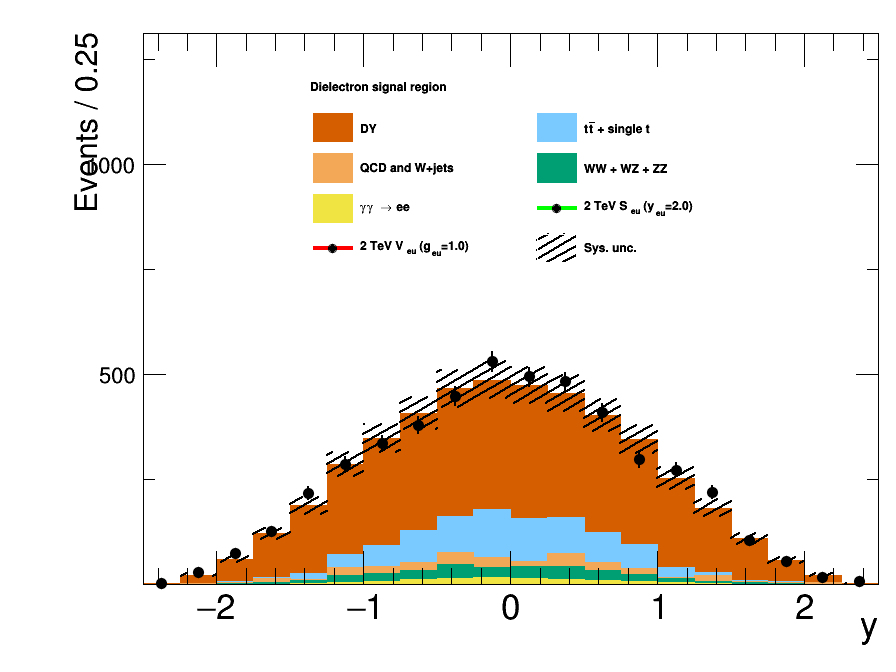
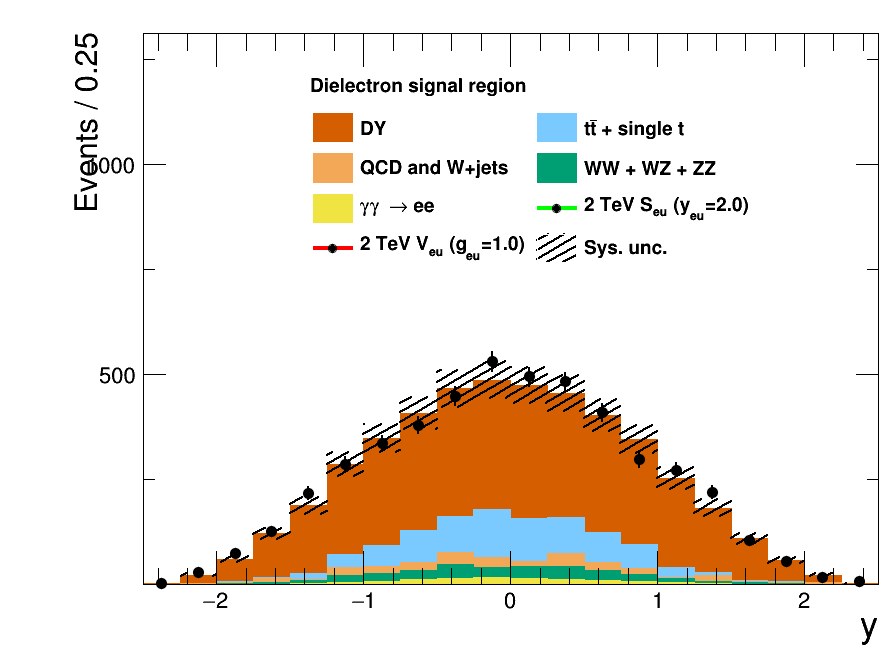
plots without data and ratio

diff --git a/plots/ElEl/draw_cmp_from_saved.C b/plots/ElEl/draw_cmp_from_saved.C
@@ -363,7 +363,7 @@ void draw_cmp_from_saved(){
     leg1->AddEntry(gg_m, "#gamma#gamma #rightarrow ee", "f");
     leg1->AddEntry(LQu_m, "2 TeV S_{eu} (y_{eu}=2.0)");
     leg1->AddEntry(LQu_vec_m, "2 TeV V_{eu} (g_{eu}=1.0)");
-    leg1->SetTextSize(0.02);
+    leg1->SetTextSize(0.03);
 
 
     leg2->AddEntry(dy_m, "DY ", "f");
@@ -374,7 +374,7 @@ void draw_cmp_from_saved(){
     leg2->AddEntry(gg_m, "#gamma#gamma #rightarrow ee", "f");
     leg2->AddEntry(LQu_m, "2 TeV S_{eu} (y_{eu}=2.0)");
     leg2->AddEntry(LQu_vec_m, "2 TeV V_{eu} (g_{eu}=1.0)");
-    leg2->SetTextSize(0.02);
+    leg2->SetTextSize(0.03);
 
 
     leg3->AddEntry(dy_m, "DY ", "f");
@@ -385,7 +385,7 @@ void draw_cmp_from_saved(){
     leg3->AddEntry(gg_m, "#gamma#gamma #rightarrow ee", "f");
     leg3->AddEntry(LQu_m, "2 TeV S_{eu} (y_{eu}=2.0)");
     leg3->AddEntry(LQu_vec_m, "2 TeV V_{eu} (g_{eu}=1.0)");
-    leg3->SetTextSize(0.02);
+    leg3->SetTextSize(0.03);
 
     leg1->SetX1NDC(0.7);
     leg1->SetX2NDC(0.7);
